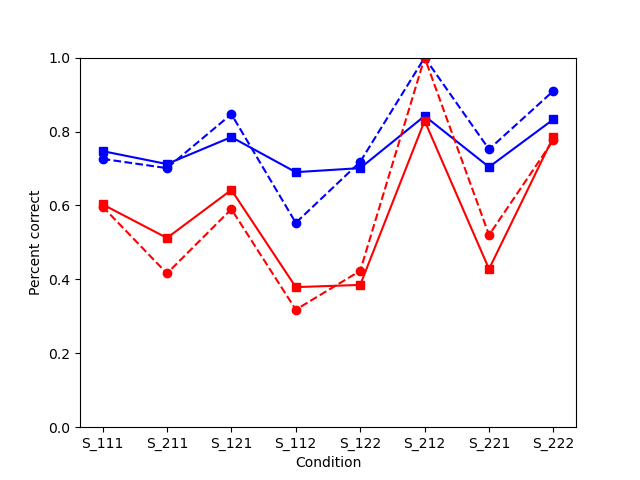
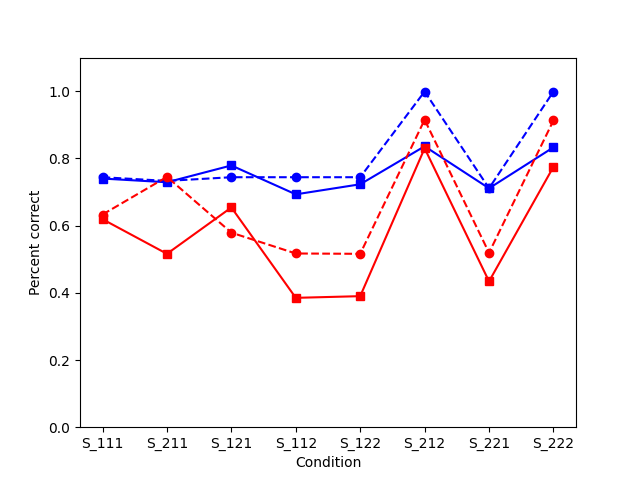
simulationPlots

diff --git a/DMS_AccStim/vmr_turningPoints.py b/DMS_AccStim/vmr_turningPoints.py
@@ -153,8 +153,7 @@ class prepare:
 
 class generateData:
 
-	def __init__(self, Temp_scalar, F_features, C_features, 
-		conditions, main_condi_names, sub_condi_names, AS1_ms, AS2_ms):
+	def __init__(self, Temp_scalar, F_features, C_features, conditions, main_condi_names, sub_condi_names):
 		self.Temp_scalar = Temp_scalar
 		self.F_features = F_features
 		self.C_features = C_features
@@ -162,8 +161,6 @@ class generateData:
 		self.main_condi_names = main_condi_names
 		self.sub_condi_names = sub_condi_names
 		self.D = prepare()
-		self.AS1_ms = AS1_ms
-		self.AS2_ms = AS2_ms
 	
 	def fx_encoding(self,f_i,Beta,c_i,cIN,bindings,MFC,MCF,gamma_FC,gamma_CF):
 		if any(np.isnan(c_i)):
@@ -198,17 +195,37 @@ class generateData:
 		TNS = "low" if condi_name[2]=="l" else "high"
 		questionType = "="
 		parDict = {
+			# "Beta_AS": cur_paraSet[0],
+			# "Beta_ListItem1": cur_paraSet[1],
+			# "Beta_ListItem2": cur_paraSet[1],
+			# "Beta_Probe": cur_paraSet[3],
+			# "Beta_retrvl": cur_paraSet[4],
+			# "g": cur_paraSet[5]
+
 			"Beta_AS": cur_paraSet[0],
 			"Beta_ListItem_low": cur_paraSet[1],
 			"Beta_ListItem_high": cur_paraSet[2],
 			"Beta_Probe_low": cur_paraSet[3],
 			"Beta_Probe_high": cur_paraSet[4],
-			"Beta_retrvl_low": cur_paraSet[5],
-			"Beta_retrvl_high": cur_paraSet[6],
-			"gamma_FC": cur_paraSet[7],
-			"gamma_CF": cur_paraSet[8],
-			"w_0": cur_paraSet[9],
-			"w_2": cur_paraSet[10]
+			"Beta_retrvl": cur_paraSet[5],
+			"gamma_FC": cur_paraSet[6],
+			"gamma_CF": cur_paraSet[7],
+			"w_0": cur_paraSet[8],
+			"w_2": cur_paraSet[9]
+
+			# "gamma_FC": cur_paraSet[6],
+			# "gamma_CF": cur_paraSet[7]
+			#"g": cur_paraSet[6]
+			# "w_FC": cur_paraSet[5],
+			# "w_CF": cur_paraSet[6]
+			# "Beta_AS_low": cur_paraSet[0],
+			# "Beta_AS_high": cur_paraSet[1],
+			# "Beta_listItem_low": cur_paraSet[2],
+			# "Beta_listItem_high": cur_paraSet[3],
+			# "Beta_Probe_low": cur_paraSet[4],
+			# "Beta_Probe_high": cur_paraSet[5],
+			# "Beta_retrvl_low": cur_paraSet[6],
+			# "Beta_retrvl_high": cur_paraSet[7]
 		}
 		Hz_scalar = np.array(self.conditions[condi_name])
 		# Hz-layer F encoding
@@ -232,17 +249,17 @@ class generateData:
 		context2 = self.D.norm_fx(poisson.pmf(self.C_features, mu = self.Temp_scalar[1]))
 		contextP = self.D.norm_fx(poisson.pmf(self.C_features, mu = self.Temp_scalar[2]))
 		
-		plt.plot(context1,"k-",label="context_1")
-		# plt.ylim(0,1.5)
-		lastxTick = self.C_features[len(self.C_features)-1]
-		medxTick = self.C_features[int(np.around((len(self.C_features)-1)/2))]
-		plt.xticks([0,np.around((len(self.C_features)-1)/2),
-			len(self.C_features)-1],[1,medxTick,lastxTick+1])
-		plt.plot(context2,"b-",label="context_2")
-		plt.plot(contextP,"r-",label="context_P")
+		# plt.plot(context1,"k-",label="context_1")
+		# # plt.ylim(0,1.5)
+		# lastxTick = self.C_features[len(self.C_features)-1]
+		# medxTick = self.C_features[int(np.around((len(self.C_features)-1)/2))]
+		# plt.xticks([0,np.around((len(self.C_features)-1)/2),
+		# 	len(self.C_features)-1],[1,medxTick,lastxTick+1])
+		# plt.plot(context2,"b-",label="context_2")
+		# plt.plot(contextP,"r-",label="context_P")
 		
-		context_AS1 = self.D.norm_fx(poisson.pmf(self.C_features, mu = self.AS1_ms)) # 60 AS = Accessory Stimulus
-		context_AS2 = self.D.norm_fx(poisson.pmf(self.C_features, mu = self.AS2_ms)) #260
+		context_AS1 = self.D.norm_fx(poisson.pmf(self.C_features, mu = 50)) # 60 AS = Accessory Stimulus
+		context_AS2 = self.D.norm_fx(poisson.pmf(self.C_features, mu = 250)) #260
 		Temp_distributed = np.array([context1,context2,contextP])
 		context_AS_array = np.array([context_AS1,context_AS2])
 		# Preparing 'mental structure' of item-context and context-item associations
@@ -283,10 +300,14 @@ class generateData:
 					f_i=f_i,Beta=Beta,c_i=c_i,cIN=cIN,
 					gamma_FC=parDict.get("gamma_FC"),gamma_CF=parDict.get("gamma_CF"),
 					bindings=True,MFC=MFC,MCF=MCF)
+
 			c_i=outcome_encoding.get("c_i")
-			# plt.plot(c_i,color_and_lineType_plot[item_i],label="c_i_ListItem_"+str(int(item_i)))	
+			
+			# plt.plot(c_i,color_and_lineType_plot[item_i],label="c_i_ListItem_"+str(int(item_i)))
+			
 			MFC=outcome_encoding.get("MFC")
 			MCF=outcome_encoding.get("MCF")
+		
 		##### Probe encoding
 		f_i = Hz_distributed[2]
 		cIN = Temp_distributed[2]
@@ -299,17 +320,19 @@ class generateData:
 			c_i=outcome_encoding.get("c_i")
 			MFC=outcome_encoding.get("MFC")
 			MCF=outcome_encoding.get("MCF")
-		plt.plot(c_i,color_and_lineType_plot[item_i+1],label="c_Probe")
-		###############################################################
-		####### question-prompt-based item retrieval###################
+		
+		# plt.plot(c_i,color_and_lineType_plot[item_i+1],label="c_i_Probe")
+		##### Responding ###################################
+		# question-prompt-based item retrieval
 		cIN = context1 if QIP==1 else context2
 		fIN = self.D.norm_fx(np.inner(MCF,cIN))
 		# ### Part of code modeling  1/2-judgment 
 		cIN = self.D.norm_fx(np.inner(MFC,fIN))
 		# plt.plot(fIN,"b--")
 		# plt.show()
-		plt.plot(cIN,"g--",label="cIN (QIP-based Hz-to-time retrieval)")
+		# plt.plot(cIN,"g--",label="cIN (QIP-based Hz-to-time retrieval)")
 		# plt.show()
+
 		Beta = parDict.get("Beta_retrvl")# parDict.get("Beta_retrvl_low") if TNS=="low" else parDict.get("Beta_retrvl_high")
 		outcome_encoding = self.fx_encoding(
 			f_i=np.nan,Beta=Beta,c_i=c_i,cIN=cIN,
@@ -317,10 +340,11 @@ class generateData:
 			bindings=False,MFC=np.nan,MCF=np.nan)
 		c_i=outcome_encoding.get("c_i")
 		# plt.matshow(MFC)
-		# plt.plot(c_i,"c-",label="c_i with cIN cincluded (densities)")
+		# plt.plot(c_i,"m-",label="c_i with cIN cincluded (densities)")
 		# plt.legend()
 		# plt.title(condi_name)
 		# plt.show()
+
 		increasing = True
 		nTurningPoints = 0
 		Positions_TurningPoints = []
@@ -594,8 +618,8 @@ def parameterTesting_subcondition():
 	"S_high_111",
 	"S_high_211","S_high_121","S_high_112",
 	"S_high_122","S_high_212","S_high_221","S_high_222"
-	M.tTCM_running_subcondition(cur_paraSet = [0.9854677,0.04416058,0.99682328,0.06714459,
-		0.88055983,0.36835827,0.01,0.94278706,0,0],
+	M.tTCM_running_subcondition(cur_paraSet = [0.98536525,0.99999912,0.98968058,0.09265353,
+		0.99743678,0.99082615,0.22892641,0.97378066,0.5,0.5],
 		condi_name=condi_name_input)
 
 ###
@@ -620,11 +644,11 @@ RSS_trace = [10]
 BIC_trace = [100]
 def searchParaSpace():
 	global nfreePar	
-	nfreePar = 9
+	nfreePar = 8
 	S = search_parameter_space(nfreePar=nfreePar)
 	xopt = so.minimize(fun=S.linkTofMinSearch, method='L-BFGS-B',
-	x0 = [.5,.5,.5,.5,.5,.5,.5,.5,.5,.5,.5],
-	bounds=[(0,1),(0,1),(0,1),(0,1),(0,1),(0,1),(0,1),(.01,1),(.01,1),(.5,.5),(.5,.5)])
+	x0 = [.5,.5,.5,.5,.5,.5,.5,.5,.5,.5],
+	bounds=[(0,1),(0,1),(0,1),(0,1),(0,1),(0,1),(.01,1),(.01,1),(.5,.5),(.5,.5)])
 	best_paraSet = xopt.get("x")
 	print()
 	print("... completed.")
